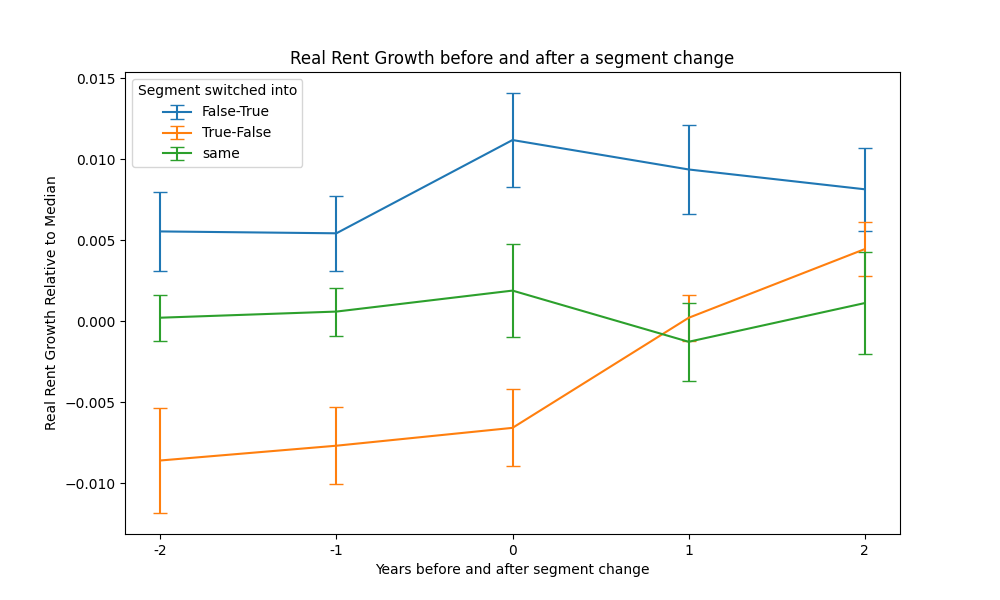
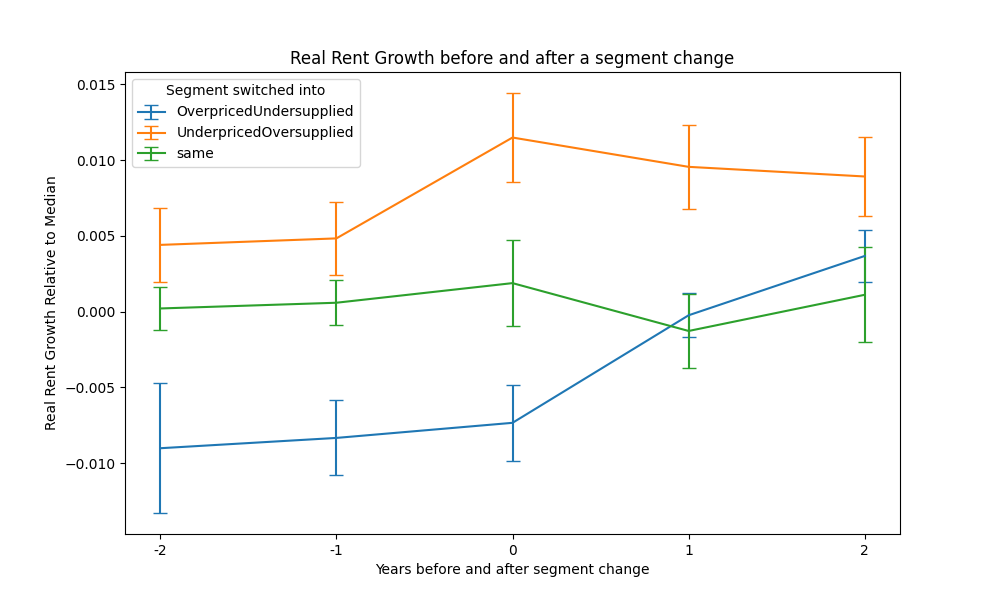
event study updates

diff --git a/Code/density_analysis_journal.py b/Code/density_analysis_journal.py
@@ -2,22 +2,13 @@ import pandas as pd
 import polars as pl
 from scipy.stats import linregress
 from matplotlib import pyplot as plt
-from matplotlib.ticker import PercentFormatter
 from pathlib import Path
 import numpy as np
-import pandas as pd
 import seaborn as sns
-import plotly.express as px
-import matplotlib.pyplot as plt
-import numpy as np
-from scipy.stats import linregress
-from statsmodels.formula.api import ols
-from statsmodels.api import OLS, add_constant
-
-import plotly.graph_objects as go
 import statsmodels.api as sm
+from statsmodels.formula.api import ols
 from statsmodels.stats.multicomp import pairwise_tukeyhsd
-from scipy.stats import skew, kurtosis
+from scipy.stats import ttest_ind
 
 
 def get_data():
@@ -100,7 +91,6 @@ def get_data():
     df = df.with_columns(
         [
             pl.col("RDI").pct_change().over("msa").alias("RDI_growth"),
-            # pl.col("RDI").pct_change().over("msa").alias("implied_demand"),
         ]
     )
 
@@ -116,8 +106,6 @@ def get_data():
             - pl.col("real_rent_growth").median().over("year")
         ).alias("real_relative_rent_growth")
     )
-    # # Remove any rows with missing inflation adjustment
-    # df = df.filter(pl.col("cpi_cum").is_not_null() & (pl.col("cpi_cum") != 0))
     df = df.select(
         [
             "year",
@@ -142,8 +130,6 @@ def get_data():
 def supply_demand_curves(df, show=True):
     var_y = "real_rentpsf"
     df = df.dropna()
-    # df = df[df["msa"] == "New York - NY"]
-    # df = df[df["year"] == 2023]
     var_x = "RDI_growth"
     slope, intercept, r_value, p_value, std_err = linregress(df[var_x], df[var_y])
     var_x = "supply_growth"
@@ -189,8 +175,6 @@ def supply_demand_curves(df, show=True):
         ax.set_ylabel("Rent per Square Foot")
         ax.set_title("Supply and Demand Curves")
         ax.legend()
-        # ax.set_xlim(-0.05, 0.05)
-        # ax.set_ylim(2, 5)
 
         # Display the plot
         plt.show()
@@ -200,9 +184,6 @@ def supply_demand_curves(df, show=True):
 def predict_future(df):
     df["interaction"] = df["RDI_growth"] * df["supply_growth"] * df["real_rent_growth"]
     vars = [
-        # "supply_growth",
-        # "RDI_growth",
-        # # "rent_growth",
         "interaction",
     ]
     year = 2022
@@ -218,14 +199,10 @@ def predict_future(df):
     forecast = pd.concat(
         [df_test[["msa", *vars]], pd.DataFrame(y_hat, columns=["y_hat"])], axis=1
     ).sort_values("y_hat")
-    # print(forecast.head(20))
-    # print(forecast.tail(20))
-    # forecast.to_csv(r"C:\users\mlarriva\desktop\prediction.csv")
     sns.boxplot(x=pd.qcut(df["RDI_growth"], q=4), y=df["real_rent_growth_next_year"])
     plt.xlabel("RDI Growth Quartiles")
     plt.ylabel("Rent Growth Next Year")
     plt.title("Rent Growth Next Year by RDI Growth Quartile")
-    # plt.show()
 
     forecast = forecast.merge(
         df_test[["msa", "year", "real_rent_growth_next_year"]],
@@ -251,7 +228,6 @@ def predict_future(df):
 
 def supply_demand_annual(df, past_current="past"):
     if past_current == "each":
-        # df = df.dropna()
         msas = df["msa"].unique()
         years = df["year"].unique()
         holder = []
@@ -333,21 +309,28 @@ def simplify_anova(df):
     print(tukey)
 
 
-# source = get_data().to_pandas()
-# df = supply_demand_annual(source, past_current="each")
-# df.to_csv(Path(__file__).resolve().parent.parent / "data" / "supply_demand_annual.csv")
-# simplify_anova(df)
-# predict_future(df)
-# TODO: a rolling OOS prediction to show the value of the model
-df = pl.read_csv(
-    Path(__file__).resolve().parent.parent / "data" / "supply_demand_annual.csv"
-)
-
-
 def event_study(original):
     holder = []
+    original = original.with_columns(
+        pl.when(pl.col("group") == "False-False")
+        .then(pl.lit("UnderpricedUndersupplied"))
+        .when(pl.col("group") == "True-False")
+        .then(pl.lit("OverpricedUndersupplied"))
+        .when(pl.col("group") == "False-True")
+        .then(pl.lit("UnderpricedOversupplied"))
+        .when(pl.col("group") == "True-True")
+        .then(pl.lit("OverpricedOversupplied"))
+        .otherwise(pl.lit("Unknown"))
+        .alias("group")
+    )
 
-    for event in ["True-False", "False-True", "True-True", "False-False", "same"]:
+    for event in [
+        "OverpricedUndersupplied",
+        "UnderpricedOversupplied",
+        # "OverpricedOversupplied",
+        # "UnderpricedUndersupplied",
+        "same",
+    ]:
         df = original.with_columns(
             pl.when(pl.col("group") == pl.col("group").shift(1).over("msa"))
             .then(pl.lit("same"))
@@ -356,15 +339,29 @@ def event_study(original):
             pl.col("group").shift(1).over("msa").alias("prev_group"),
         ).drop_nulls(subset="prev_group")
         if event != "same":
+
             event_years = (
-                # df.filter(pl.col("transition").shift(-1).over("msa") == "same")
+                df
+                # .filter(pl.col("transition").shift(-1).over("msa") == "same")
                 # .filter(pl.col("transition").shift(-2).over("msa") == "same")
-                # df.filter(pl.col("transition").shift(1).over("msa") == "same")
+                # .filter(pl.col("transition").shift(1).over("msa") == "same")
                 # .filter(pl.col("transition").shift(2).over("msa") == "same")
-                df.filter(pl.col("transition") == "switch")
+                .filter(pl.col("transition") == "switch")
                 .filter(pl.col("group") == event)
                 .select(pl.col("msa"), pl.col("year").alias("event_year"))
             )
+            event_years = (
+                event_years.sort("event_year")
+                .with_columns(
+                    (
+                        pl.col("event_year") - pl.col("event_year").shift(1).over("msa")
+                    ).alias("year_diff")
+                )
+                .filter((pl.col("year_diff").is_null()) | (pl.col("year_diff") > 2))
+                .drop("year_diff")
+            )
+            print(event)
+            print(event_years)
         else:
             event_years = (
                 df.filter(pl.col("transition").shift(-1).over("msa") == "same")
@@ -387,7 +384,7 @@ def event_study(original):
                 values="real_relative_rent_growth",
                 index=["msa", "event_time"],
                 on="event_time",
-                aggregate_function="mean",  # no aggregation needed
+                aggregate_function="mean",
             )
             .rename(
                 {
@@ -402,7 +399,11 @@ def event_study(original):
         )
         holder = holder + pivoted.to_dicts()
     holder = pd.DataFrame(holder)
-    holder = holder[holder["event"].isin(["same", "True-False", "False-True"])]
+    holder = holder[
+        holder["event"].isin(
+            ["same", "OverpricedUndersupplied", "UnderpricedOversupplied"]
+        )
+    ]
     averaged_holder = holder.groupby("event").mean(numeric_only=True).reset_index()
     std_errors = holder.groupby("event").sem(numeric_only=True).reset_index()
     plt.figure(figsize=(10, 6))
@@ -438,8 +439,51 @@ def event_study(original):
     plt.ylabel("Real Rent Growth Relative to Median")
     plt.title("Real Rent Growth before and after a segment change")
     plt.legend(title="Segment switched into")
-    # plt.show()
     plt.savefig(Path(__file__).resolve().parent.parent / "Figs" / "event_study.png")
+    plt.show()
+
+    # Calculate differences in means and perform t-tests
+    results = []
+    for event in ["OverpricedUndersupplied", "UnderpricedOversupplied", "same"]:
+        event_data = holder[holder["event"] == event]
+
+        # Calculate means for two years before and after the event
+        before_means = event_data[["rr_rent_growth_m2", "rr_rent_growth_m1"]].mean()
+        after_means = event_data[
+            ["rr_rent_growth_0", "rr_rent_growth_p1", "rr_rent_growth_p2"]
+        ].mean()
+
+        # Perform t-tests for differences in means
+        t_stat, p_value = ttest_ind(
+            event_data[["rr_rent_growth_m2", "rr_rent_growth_m1"]].values.flatten(),
+            event_data[
+                ["rr_rent_growth_0", "rr_rent_growth_p1", "rr_rent_growth_p2"]
+            ].values.flatten(),
+            nan_policy="omit",
+        )
+
+        results.append(
+            {
+                "Event": event,
+                "Mean Before": before_means.mean(),
+                "Mean After": after_means.mean(),
+                "Difference": after_means.mean() - before_means.mean(),
+                "p-value": p_value,
+            }
+        )
+
+    # Create a DataFrame for the results
+    results_df = pd.DataFrame(results)
+
+    # Display the table
+    print("\nDifferences in Means and p-values:")
+    print(results_df.to_string(index=False))
 
 
+# df = get_data().to_pandas()
+# supply_demand_annual(df, past_current="each")
+# simplify_anova(supply_demand_annual(df, past_current="each"))
+df = pl.read_csv(
+    Path(__file__).resolve().parent.parent / "data" / "supply_demand_annual.csv"
+)
 event_study(df)
